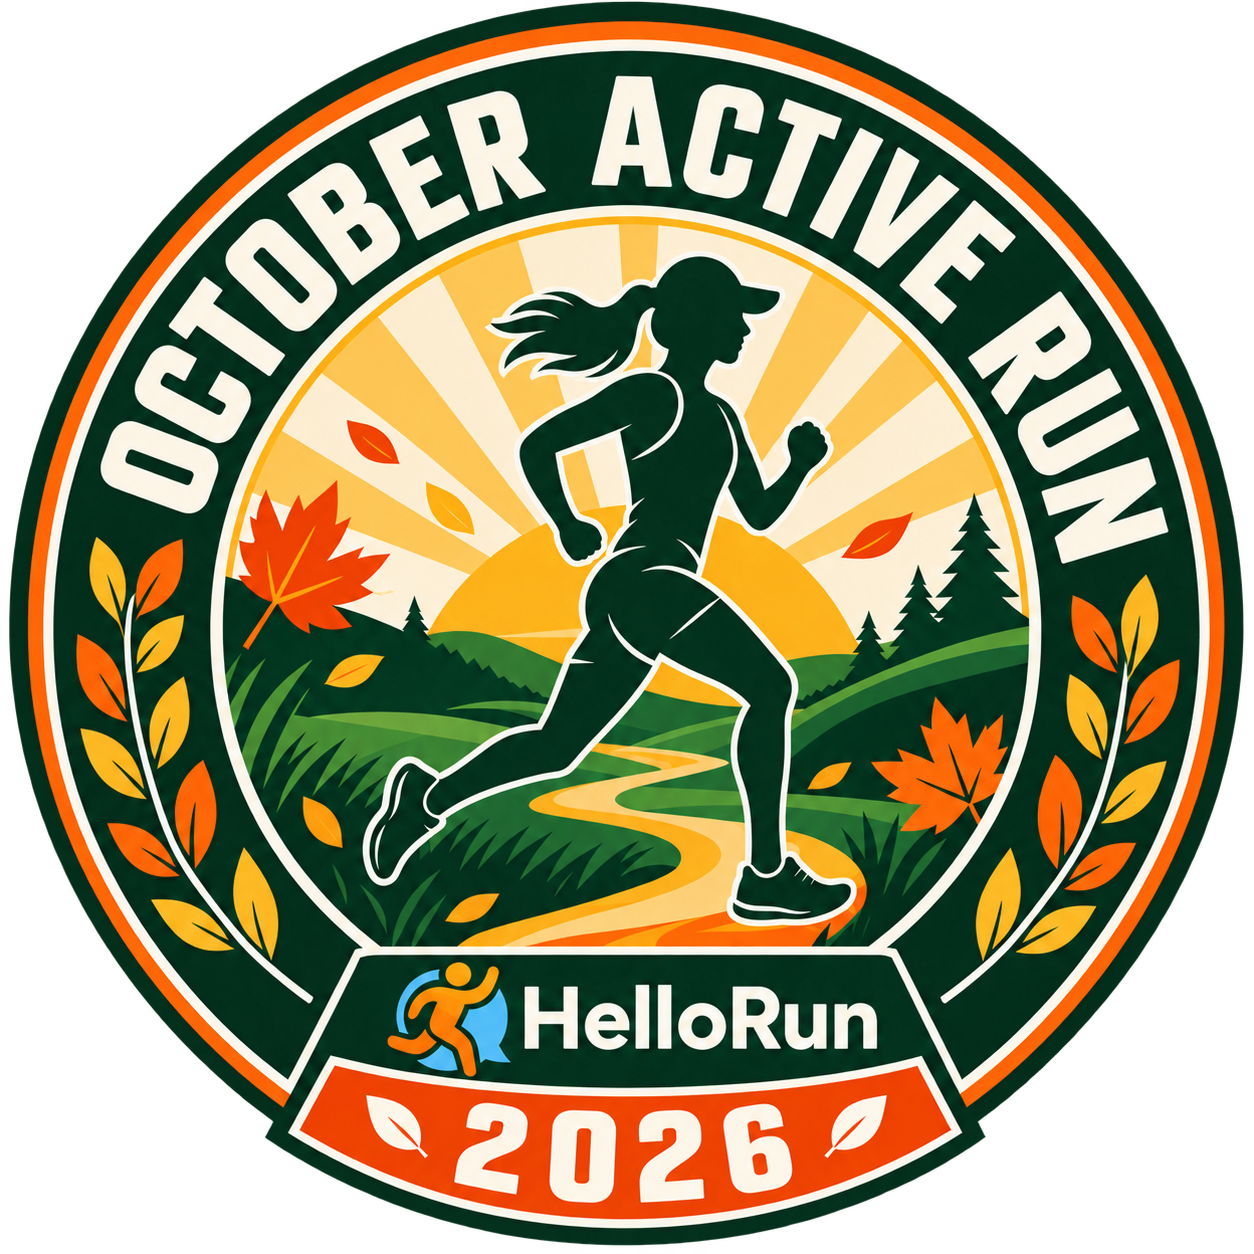
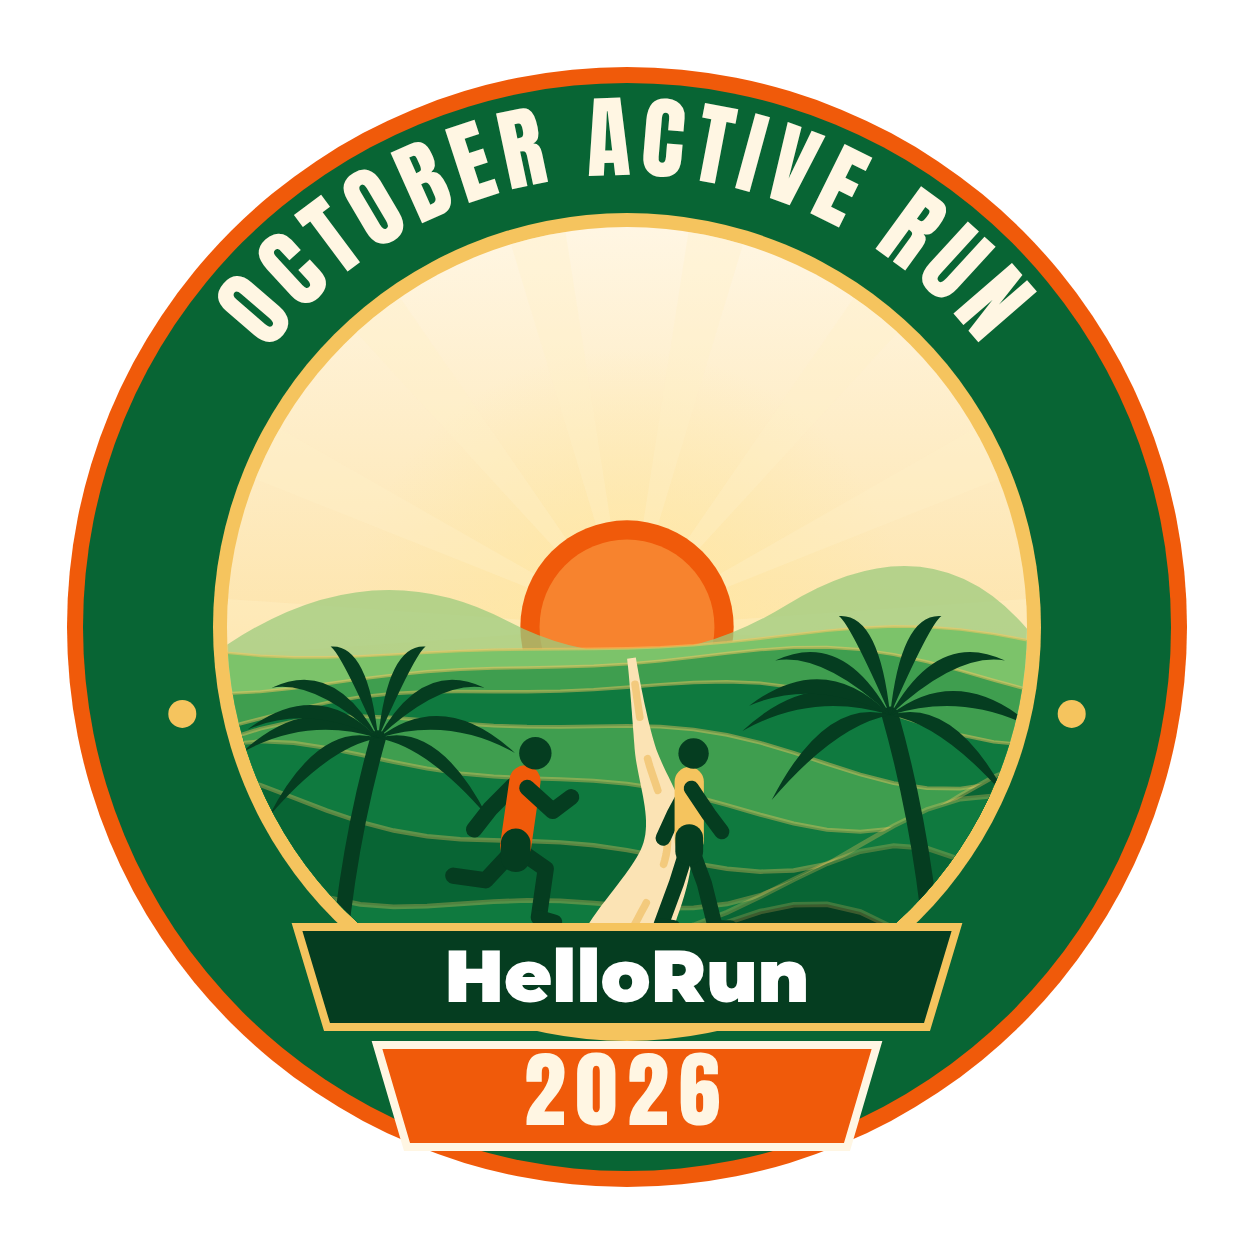
Replace October Active Run artwork and add live artwork update script

diff --git a/src/scripts/update-october-active-run-2026-artwork.js b/src/scripts/update-october-active-run-2026-artwork.js
@@ -1,0 +1,109 @@
+require('dotenv').config();
+
+const fs = require('node:fs');
+const path = require('node:path');
+const mongoose = require('mongoose');
+const Event = require('../models/Event');
+const User = require('../models/User');
+const CertificateTemplate = require('../models/CertificateTemplate');
+const uploadService = require('../services/upload.service');
+const { closePostgresClient } = require('../db/postgres');
+const { synchronizeEventBadgeImages } = require('../services/event-badge.service');
+const { SLUG } = require('../content/events/october-active-run-2026');
+
+const APPLY = process.argv.includes('--apply');
+const ASSET_DIR = path.resolve(__dirname, '../../assets/events/october-active-run-2026');
+const BANNER_PATH = path.join(ASSET_DIR, 'october-active-run-2026-banner.png');
+const POSTER_PATH = path.join(ASSET_DIR, 'october-active-run-2026-poster.png');
+const LOGO_PATH = path.join(ASSET_DIR, 'october-active-run-2026-badge.png');
+
+function filePayload(filePath) {
+  return {
+    buffer: fs.readFileSync(filePath),
+    mimetype: 'image/png',
+    originalname: path.basename(filePath)
+  };
+}
+
+// Replaces the live event's banner, poster, logo, and badge image with the committed artwork.
+// Previous R2 objects are kept so already-shared links and cached previews keep resolving.
+async function main() {
+  if (!process.env.MONGODB_URI) throw new Error('MONGODB_URI is required.');
+  for (const assetPath of [BANNER_PATH, POSTER_PATH, LOGO_PATH]) {
+    if (!fs.existsSync(assetPath)) throw new Error(`Missing event asset: ${assetPath}`);
+  }
+  await mongoose.connect(process.env.MONGODB_URI);
+
+  const event = await Event.findOne({ slug: SLUG, isDeleted: { $ne: true } });
+  if (!event) throw new Error(`Event ${SLUG} was not found.`);
+  const organizer = await User.findById(event.organizerId);
+  if (!organizer) throw new Error(`Organizer ${event.organizerId} was not found.`);
+  const template = await CertificateTemplate.findOne({ eventId: event._id, status: 'active' });
+
+  const current = {
+    eventId: String(event._id),
+    bannerImageUrl: event.bannerImageUrl,
+    posterImageUrl: event.posterImageUrl,
+    logoUrl: event.logoUrl,
+    badgeImageUrl: event.badgeImageUrl,
+    certificateTemplate: template ? String(template._id) : null
+  };
+
+  if (!APPLY) {
+    console.log(JSON.stringify({ mode: 'dry-run', slug: SLUG, current, mutation: false }, null, 2));
+    return;
+  }
+
+  const uploads = await uploadService.uploadEventBrandingToR2({
+    userId: organizer._id,
+    slug: SLUG,
+    bannerImageFile: filePayload(BANNER_PATH),
+    logoFile: filePayload(LOGO_PATH),
+    posterImageFile: filePayload(POSTER_PATH)
+  });
+  const uploadedKeys = Object.values(uploads).map((item) => item?.key).filter(Boolean);
+
+  try {
+    event.bannerImageUrl = uploads.banner.url;
+    event.posterImageUrl = uploads.poster.url;
+    event.logoUrl = uploads.logo.url;
+    event.badgeImageUrl = uploads.badgeImage.url;
+    await event.save();
+  } catch (error) {
+    await uploadService.deleteObjects(uploadedKeys).catch(() => {});
+    throw error;
+  }
+
+  if (template) {
+    template.assets.eventLogoUrl = uploads.logo.url;
+    template.assets.eventLogoKey = uploads.logo.key;
+    template.assets.eventArtworkUrl = uploads.banner.url;
+    template.assets.eventArtworkKey = uploads.banner.key;
+    template.markModified('assets');
+    await template.save();
+  }
+
+  const badgeSync = await synchronizeEventBadgeImages(event._id, event.badgeImageUrl || event.logoUrl || '');
+
+  console.log(JSON.stringify({
+    mode: 'apply',
+    slug: SLUG,
+    previous: current,
+    bannerImageUrl: event.bannerImageUrl,
+    posterImageUrl: event.posterImageUrl,
+    logoUrl: event.logoUrl,
+    badgeImageUrl: event.badgeImageUrl,
+    certificateTemplateUpdated: Boolean(template),
+    badgesSynchronized: badgeSync.updatedCount
+  }, null, 2));
+}
+
+main()
+  .catch((error) => {
+    console.error(error?.stack || error);
+    process.exitCode = 1;
+  })
+  .finally(async () => {
+    await closePostgresClient().catch(() => {});
+    if (mongoose.connection.readyState !== 0) await mongoose.disconnect();
+  });

diff --git a/tests/october-active-run-event.unit.test.js b/tests/october-active-run-event.unit.test.js
@@ -149,3 +149,15 @@ test('October creator is dry-run by default and requires explicit apply for publ
   assert.match(script, /ENOTFOUND\|ENETUNREACH/);
   assert.equal(pkg.scripts['event:create-october-active-run-2026'], 'node src/scripts/create-october-active-run-2026.js');
 });
+
+test('October artwork updater is dry-run by default and re-synchronizes badges on apply', () => {
+  const script = fs.readFileSync(path.resolve(__dirname, '../src/scripts/update-october-active-run-2026-artwork.js'), 'utf8');
+  const pkg = JSON.parse(fs.readFileSync(path.resolve(__dirname, '../package.json'), 'utf8'));
+
+  assert.match(script, /process\.argv\.includes\('--apply'\)/);
+  assert.match(script, /mutation: false/);
+  assert.match(script, /logoFile: filePayload\(LOGO_PATH\)/);
+  assert.match(script, /synchronizeEventBadgeImages\(event\._id/);
+  assert.match(script, /template\.assets\.eventArtworkUrl = uploads\.banner\.url/);
+  assert.equal(pkg.scripts['event:update-october-active-run-2026-artwork'], 'node src/scripts/update-october-active-run-2026-artwork.js');
+});

diff --git a/docs/changelog/2026-10-october.md b/docs/changelog/2026-10-october.md
@@ -15,6 +15,18 @@
   The apply run uploaded the banner, poster and badge to R2, published the certificate
   template, and created 19 finisher badges (none deferred). Automatic email promotion
   is disabled.
-- The banner and poster are text edits of the September Active Run artwork. Prompts
-  for distinct October artwork are in `assets/events/october-active-run-2026/prompts.md`;
-  replacement is pending (see [STATUS.md](../STATUS.md)).
+- The banner and poster published on October 3 are text edits of the September Active
+  Run artwork.
+
+### October Active Run artwork replacement
+
+- New illustrated banner (1920×1080), poster (1080×1620) and transparent badge
+  (1254×1254) replace the September-derived artwork in
+  `assets/events/october-active-run-2026/`: rice terraces at sunset with palms, a runner
+  and a walker on a winding road, in HelloRun green, orange and gold. The badge drops the
+  maple-leaf motif.
+- `npm run event:update-october-active-run-2026-artwork` uploads the committed artwork
+  to R2, updates the event's banner, poster, logo and badge URLs and the active
+  certificate template's logo and artwork, and re-synchronises the badge image on the
+  event's PostgreSQL badges. It is dry-run unless `--apply` is passed and keeps the
+  previous R2 objects so already-shared links still resolve.

diff --git a/docs/STATUS.md b/docs/STATUS.md
@@ -193,10 +193,9 @@ production services.
   Render hosting — production runs via PM2 + nginx + a Cloudflare Tunnel on a
   single host, not Render.
 - **October Active Run 2026 artwork swap.** The event went live on October 3 with a
-  banner and poster that are text edits of the September artwork. Generate distinct
-  images from `assets/events/october-active-run-2026/prompts.md`, upload them on the
-  organizer event edit page (the badge goes in as the logo; issued badges are
-  synchronised), and commit the new PNGs.
+  banner and poster derived from the September artwork. Replacement artwork is
+  committed; run `npm run event:update-october-active-run-2026-artwork -- --apply` to
+  publish it to the live event and its badges.
 - Deploy the current revision and complete the AdSense crawl/review procedure.
 - Configure and verify production Redis plus Cloudflare Tunnel/nginx client-IP
   handling.
